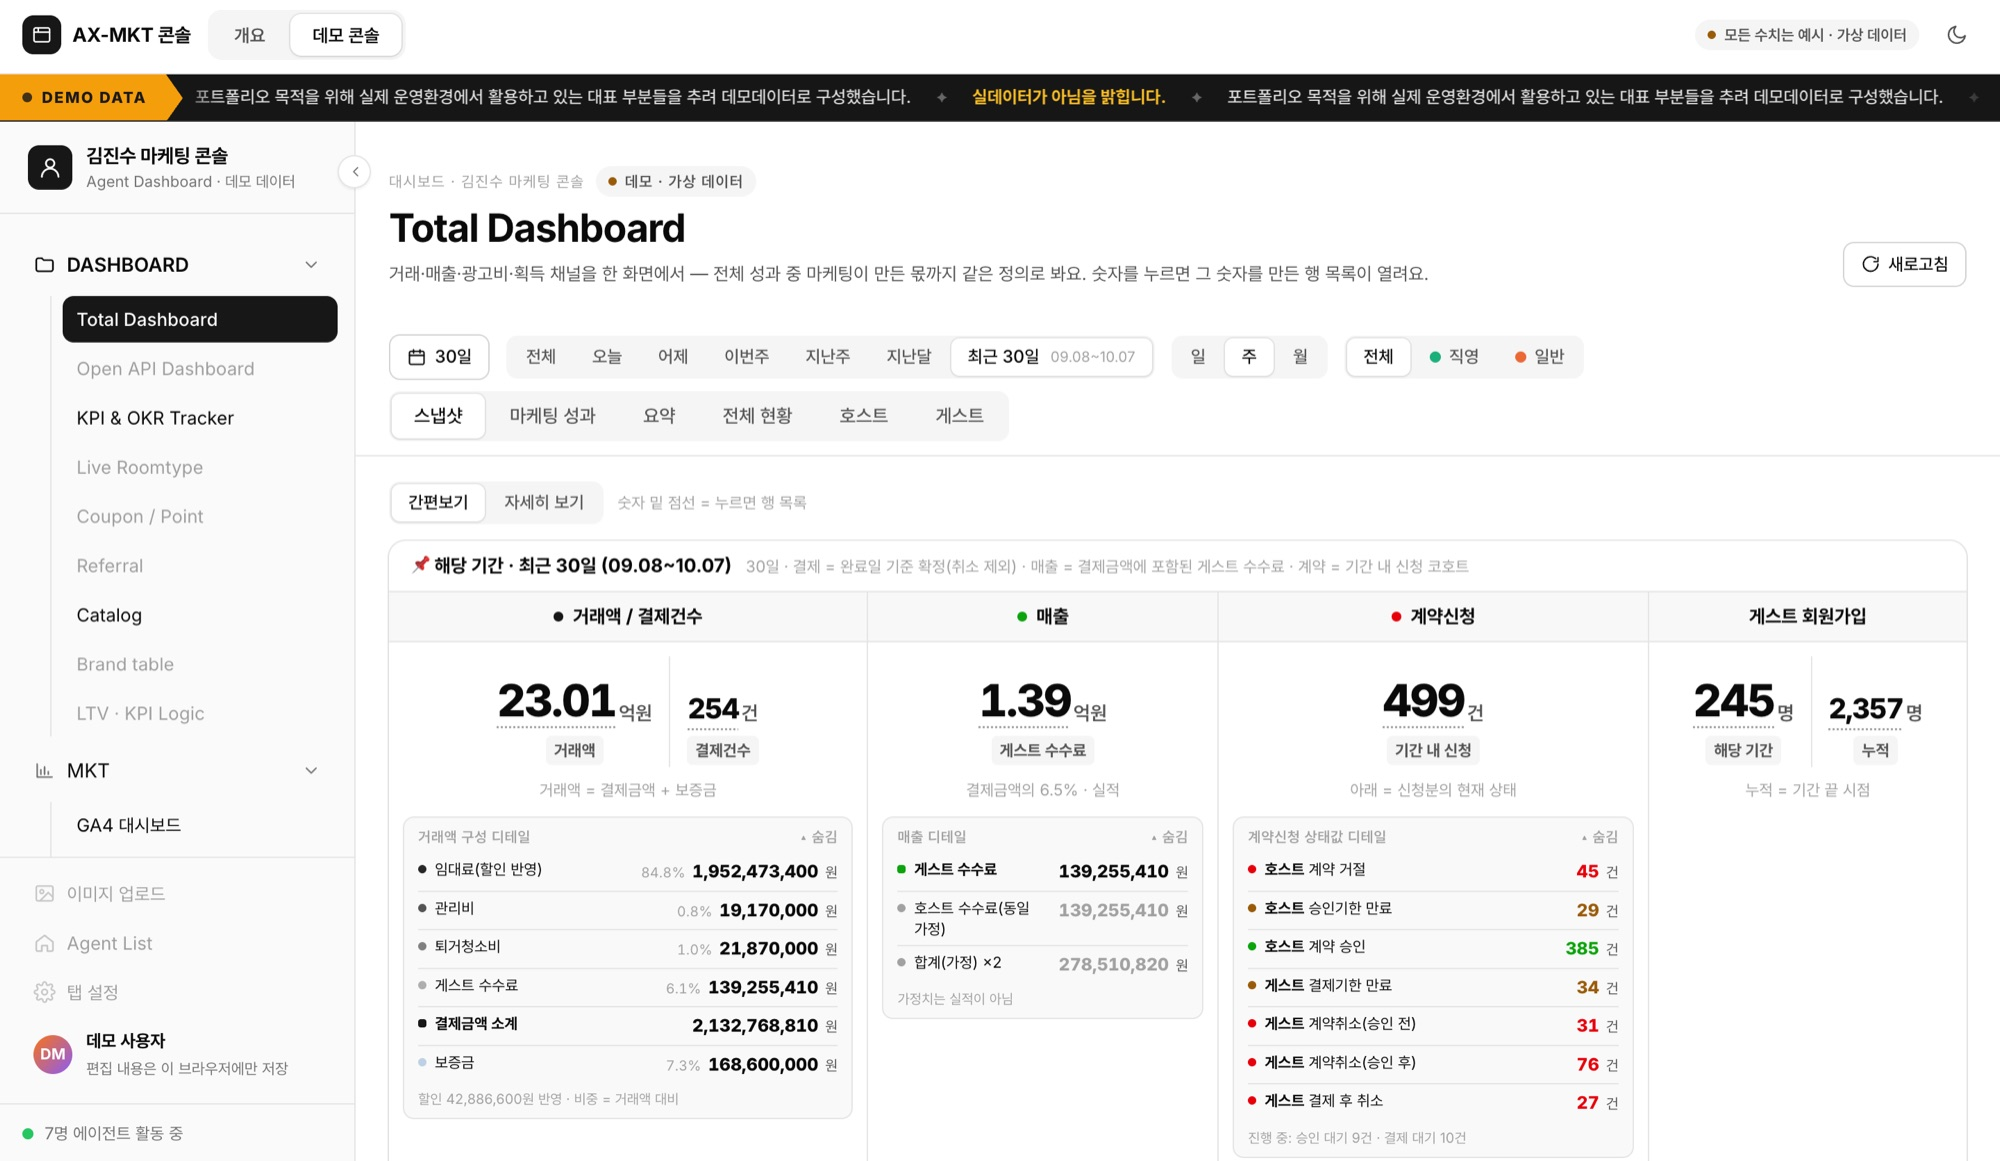
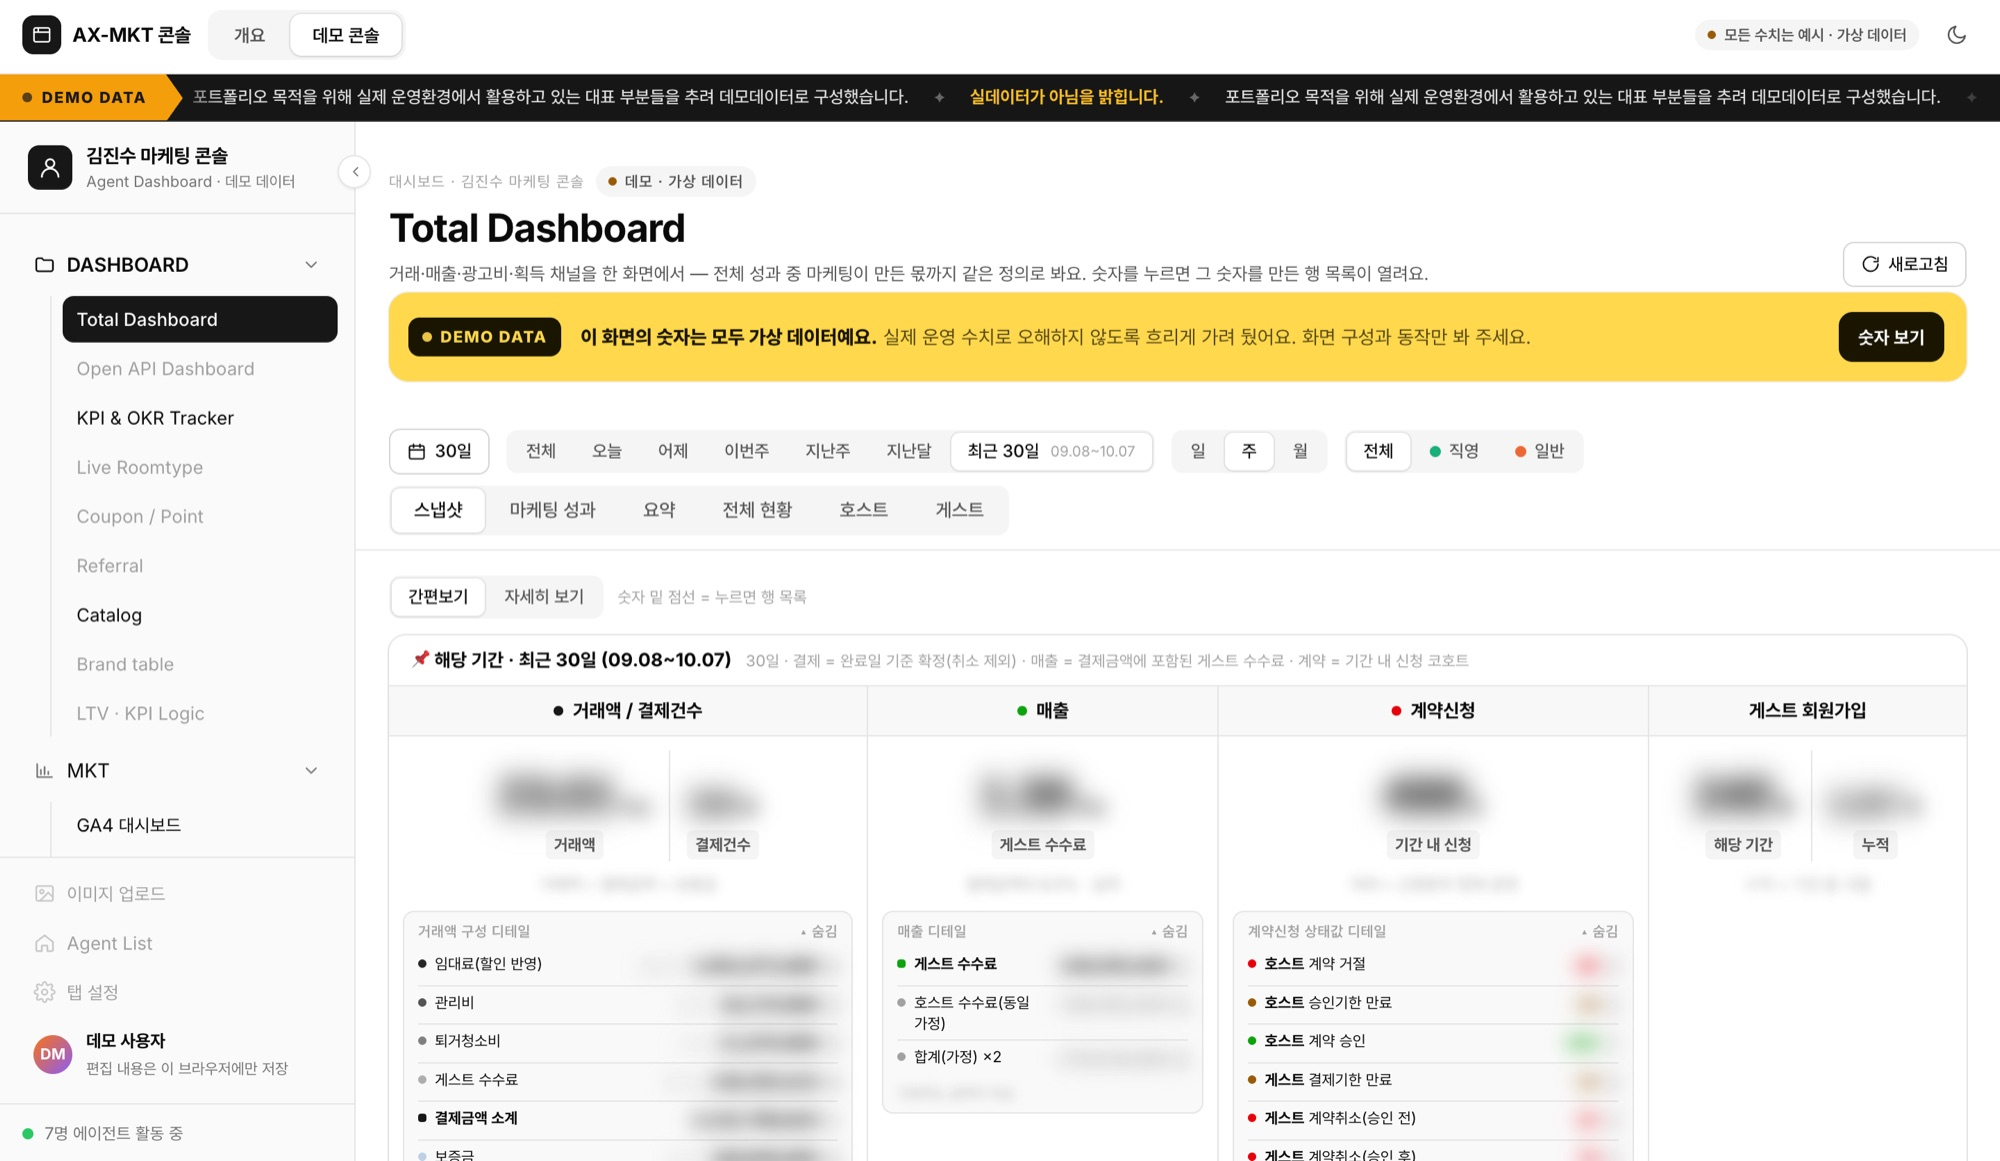
대시보드 데모 표시 강화: 숫자 흐림 + 노란 DEMO DATA 안내 바
- Total Dashboard · KPI & OKR · Catalog: 숫자(KPI·표·차트 눈금·증감·설명 줄·숫자 클릭 목록 창)를 기본으로 흐리게
- 제목 아래 노란 안내 바 '이 화면의 숫자는 모두 가상 데이터예요' + '숫자 보기/다시 가리기' 토글(이 브라우저에 기억)
- 개요 그림 1 대시보드 캡처도 흐림 적용 화면으로 교체

diff --git a/mkt-console/shell.js b/mkt-console/shell.js
@@ -87,11 +87,26 @@
     var m = $("#mdrawer .sb"); if (m) m.outerHTML = sidebar("drawer");
     var t = $(".tb"), k = $(".tk"); if (k) k.remove(); if (t) t.outerHTML = topbar();
   }
+  /* 대시보드 화면 = 숫자 흐리게(기본) + 눈에 띄는 '데모 데이터' 안내 바 · '숫자 보기' 토글 (흐림은 html.nw-blur — 숫자 클릭 목록 창까지) */
+  var BLUR = { "total-dashboard": 1, "kpi-okr": 1, "catalog": 1 };
+  var blurOn = function () { return store.get("blur", true) !== false; };
+  function demoNote(main) {
+    if (!BLUR[route()]) return;
+    var w = main.querySelector(".wrap"), hero = w && w.querySelector(":scope > .hero"); if (!w) return;
+    var html = '<div class="dn" role="note"><span class="dn-tag">DEMO DATA</span><p><b>이 화면의 숫자는 모두 가상 데이터예요.</b> <span>실제 운영 수치로 오해하지 않도록 흐리게 가려 뒀어요. 화면 구성과 동작만 봐 주세요.</span></p><button type="button" class="dn-btn" data-blur-tg>' + (blurOn() ? "숫자 보기" : "다시 가리기") + '</button></div>';
+    if (hero) hero.insertAdjacentHTML("afterend", html); else w.insertAdjacentHTML("afterbegin", html);
+  }
+  document.addEventListener("click", function (e) {
+    var b = e.target.closest("[data-blur-tg]"); if (!b) return;
+    var next = !blurOn(); store.set("blur", next); document.documentElement.classList.toggle("nw-blur", next && !!BLUR[route()]);
+    NW.$$("[data-blur-tg]").forEach(function (x) { x.textContent = next ? "숫자 보기" : "다시 가리기"; });
+  });
   NW.rerender = function (keep) {
     var y = window.scrollY, main = $("#main"); if (!main) return;
     NW.charts.length = 0;
     if (route() === OV) { main.innerHTML = '<div class="wrap ov-wrap">' + NW.OVERVIEW.render() + '</div>'; NW.OVERVIEW.mount(); }
-    else { main.innerHTML = '<div class="wrap">' + NW.PAGES[route()].render() + '</div>'; NW.drawCharts(); }
+    else { main.innerHTML = '<div class="wrap">' + NW.PAGES[route()].render() + '</div>'; NW.drawCharts(); demoNote(main); }
+    document.documentElement.classList.toggle("nw-blur", !!BLUR[route()] && blurOn());
     if (keep !== false) window.scrollTo(0, y);
   };
   var lastMode = null;

diff --git a/mkt-console/ax.css b/mkt-console/ax.css
@@ -424,3 +424,16 @@ html.embed .ed-end{display:none}
 .ed-cur.on span{opacity:1;transform:none}
 @media(hover:hover) and (pointer:fine){.ed .ed-stage{cursor:none}}
 @media(prefers-reduced-motion:reduce){.ed-state .w{color:var(--ink2)}}
+/* 2026-10-07 대시보드 데모 표시 강화 — 숫자 흐림(html.nw-blur, 숫자 클릭 목록 창 · 차트 툴팁까지) + 노란 'DEMO DATA' 안내 바 · 숫자 보기 토글 */
+.nw-blur #main .kv,.nw-blur #main .bk-v,.nw-blur #main .nclk,.nw-blur #main .tnum:not(table):not(thead):not(tbody):not(tr),.nw-blur td.r,.nw-blur #main svg text.ax,.nw-blur .tip div,.nw-blur .md .tnum:not(table),.nw-blur #main .ks,.nw-blur #main .dlt,.nw-blur #main .db-foot,.nw-blur #main .bk-sub,.nw-blur #main .mk-ct span,.nw-blur #main .gl-n,.nw-blur .md-h .tt span{filter:blur(7px);-webkit-user-select:none;user-select:none;transition:filter .35s}
+.nw-blur #main .kv,.nw-blur #main .bk-v{filter:blur(9px)}.nw-blur #main .ks,.nw-blur #main .db-foot,.nw-blur #main .bk-sub,.nw-blur #main .gl-n{filter:blur(4px)}
+#main .kv,#main .bk-v,#main .tnum,td.r,#main svg text.ax{transition:filter .35s}
+.dn{display:flex;align-items:center;gap:14px;margin:4px 0 18px;padding:14px 16px 14px 14px;border-radius:14px;background:#ffd84d;color:#1a1500;box-shadow:0 0 0 1px rgba(0,0,0,.06)}
+.dn-tag{flex:none;display:inline-flex;align-items:center;gap:6px;height:28px;padding:0 10px;border-radius:8px;background:#1a1500;font-size:11.5px;font-weight:800;letter-spacing:.08em;color:#ffd84d}
+.dn-tag::before{content:"";width:7px;height:7px;border-radius:50%;background:#ffd84d;animation:dnPulse 1.6s ease-in-out infinite}
+@keyframes dnPulse{50%{opacity:.25}}
+.dn p{flex:1;min-width:0;margin:0;font-size:14px;line-height:1.5}.dn p b{font-weight:800}.dn p span{opacity:.75}
+.dn-btn{flex:none;height:36px;padding:0 14px;border:0;border-radius:10px;background:#1a1500;font:inherit;font-size:13px;font-weight:700;color:#fff;cursor:pointer}.dn-btn:hover{background:#000}
+.dark .dn{background:#f5c518}
+@media(max-width:640px){.dn{flex-wrap:wrap;gap:10px}.dn p{flex-basis:100%;order:2}.dn-btn{margin-left:auto}}
+@media(prefers-reduced-motion:reduce){.dn-tag::before{animation:none}}
